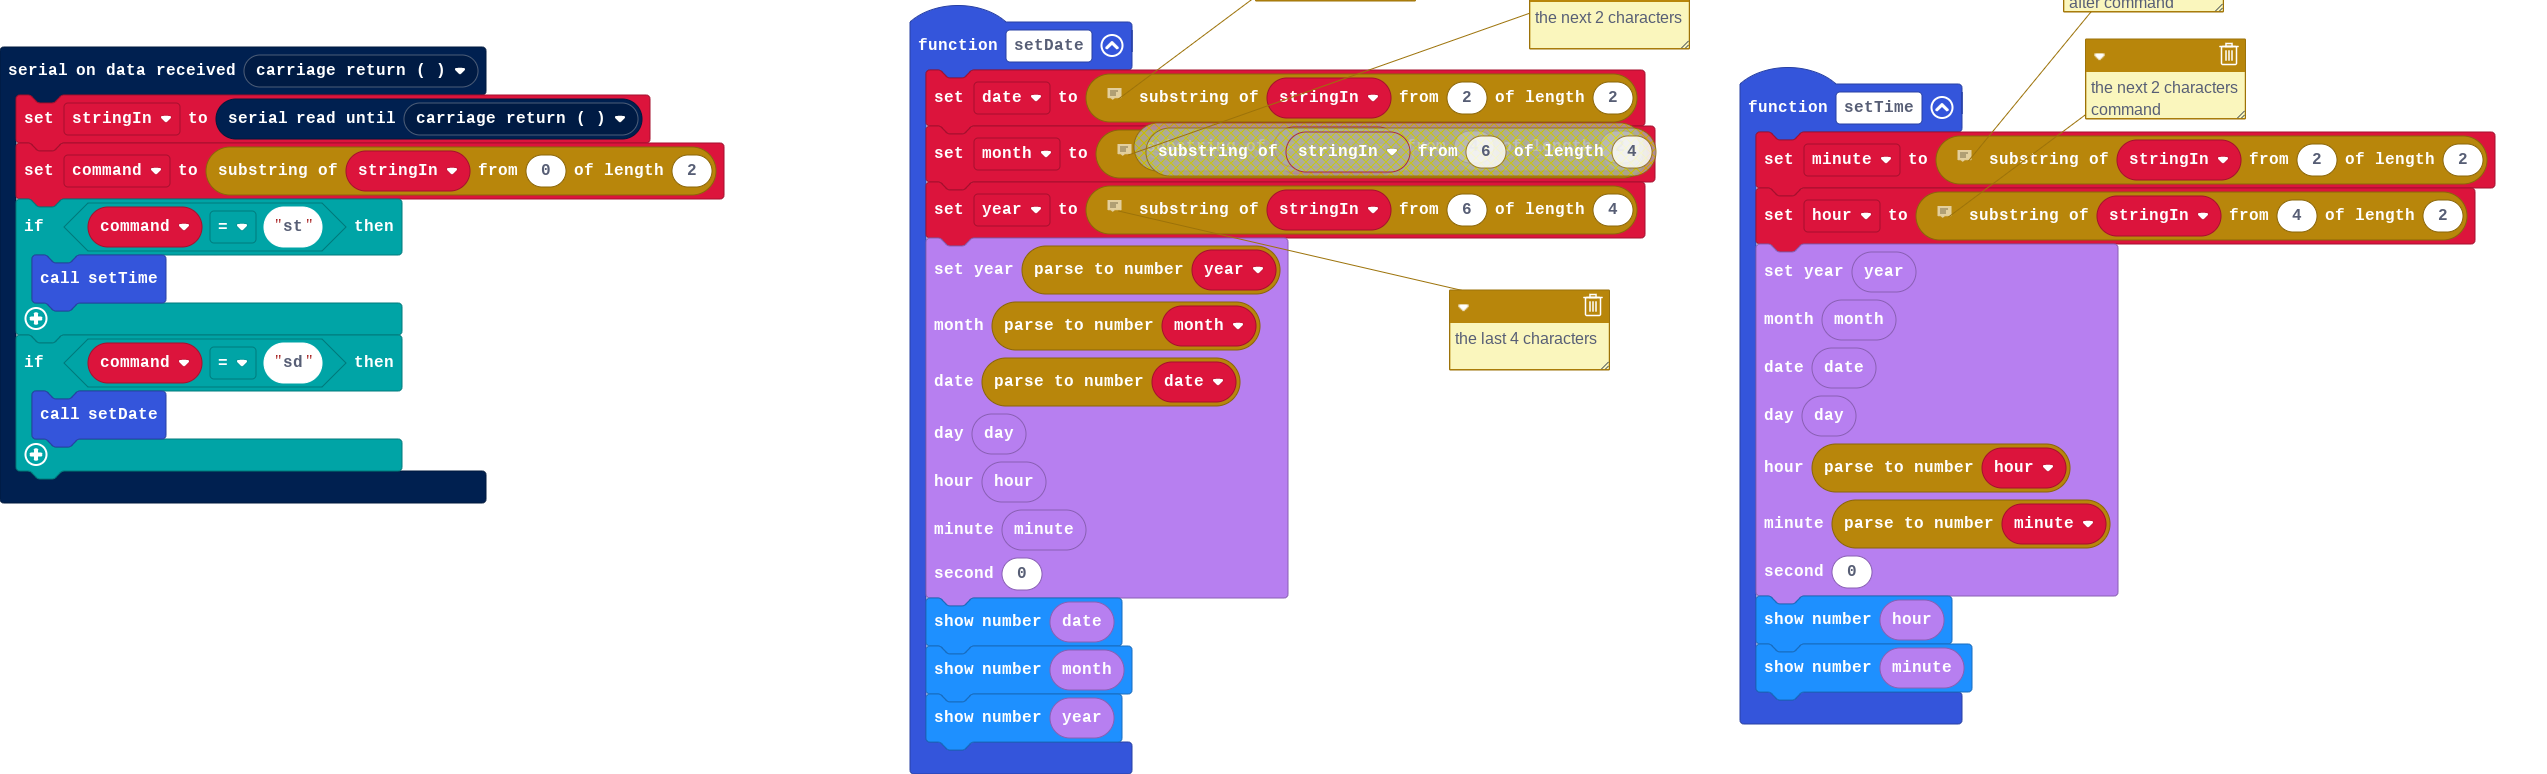
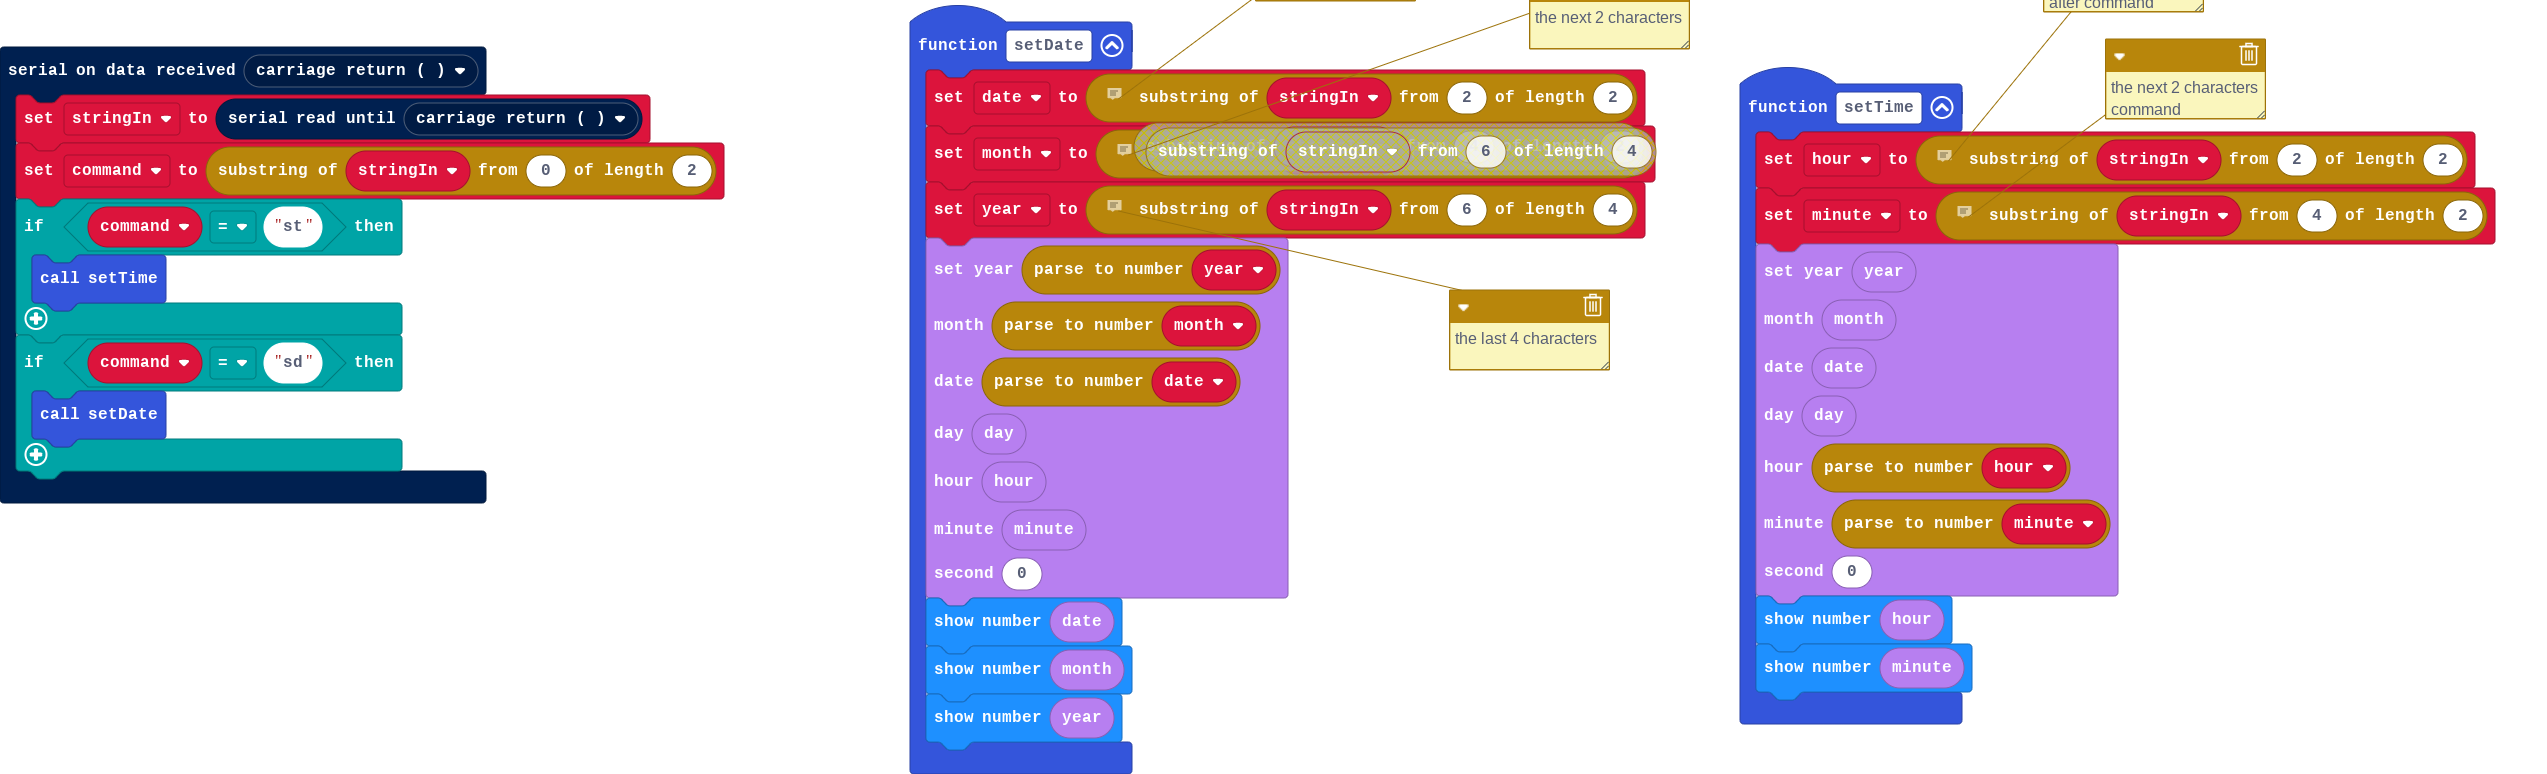
typo

Changed region(s): [[0.7134, 0.0, 0.9925, 0.3101]]

diff --git a/main.ts b/main.ts
@@ -2,8 +2,8 @@ let date = ""
 let stringIn = ""
 let month = ""
 let year = ""
-let minute = ""
 let hour = ""
+let minute = ""
 let command = ""
 function setDate () {
     // the first 2 characters after command
@@ -27,9 +27,9 @@ function setDate () {
 }
 function setTime () {
     // the first 2 characters after command
-    minute = stringIn.substr(2, 2)
+    hour = stringIn.substr(2, 2)
     // the next 2 characters command
-    hour = stringIn.substr(4, 2)
+    minute = stringIn.substr(4, 2)
     DS3231.dateTime(
     DS3231.year(),
     DS3231.month(),
